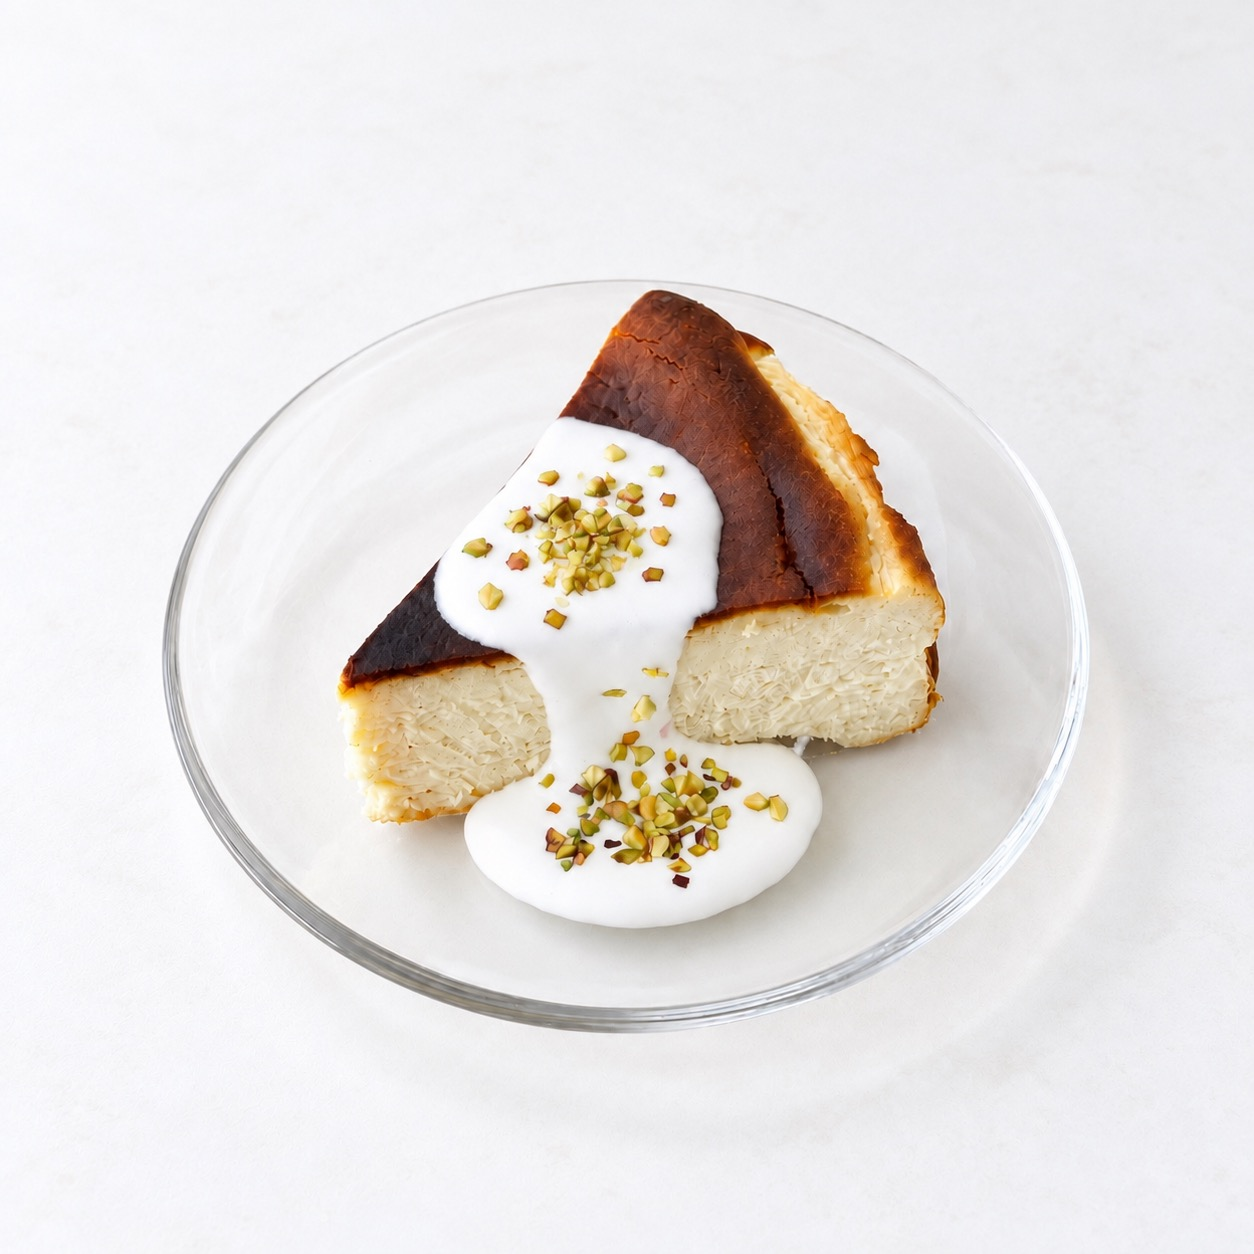
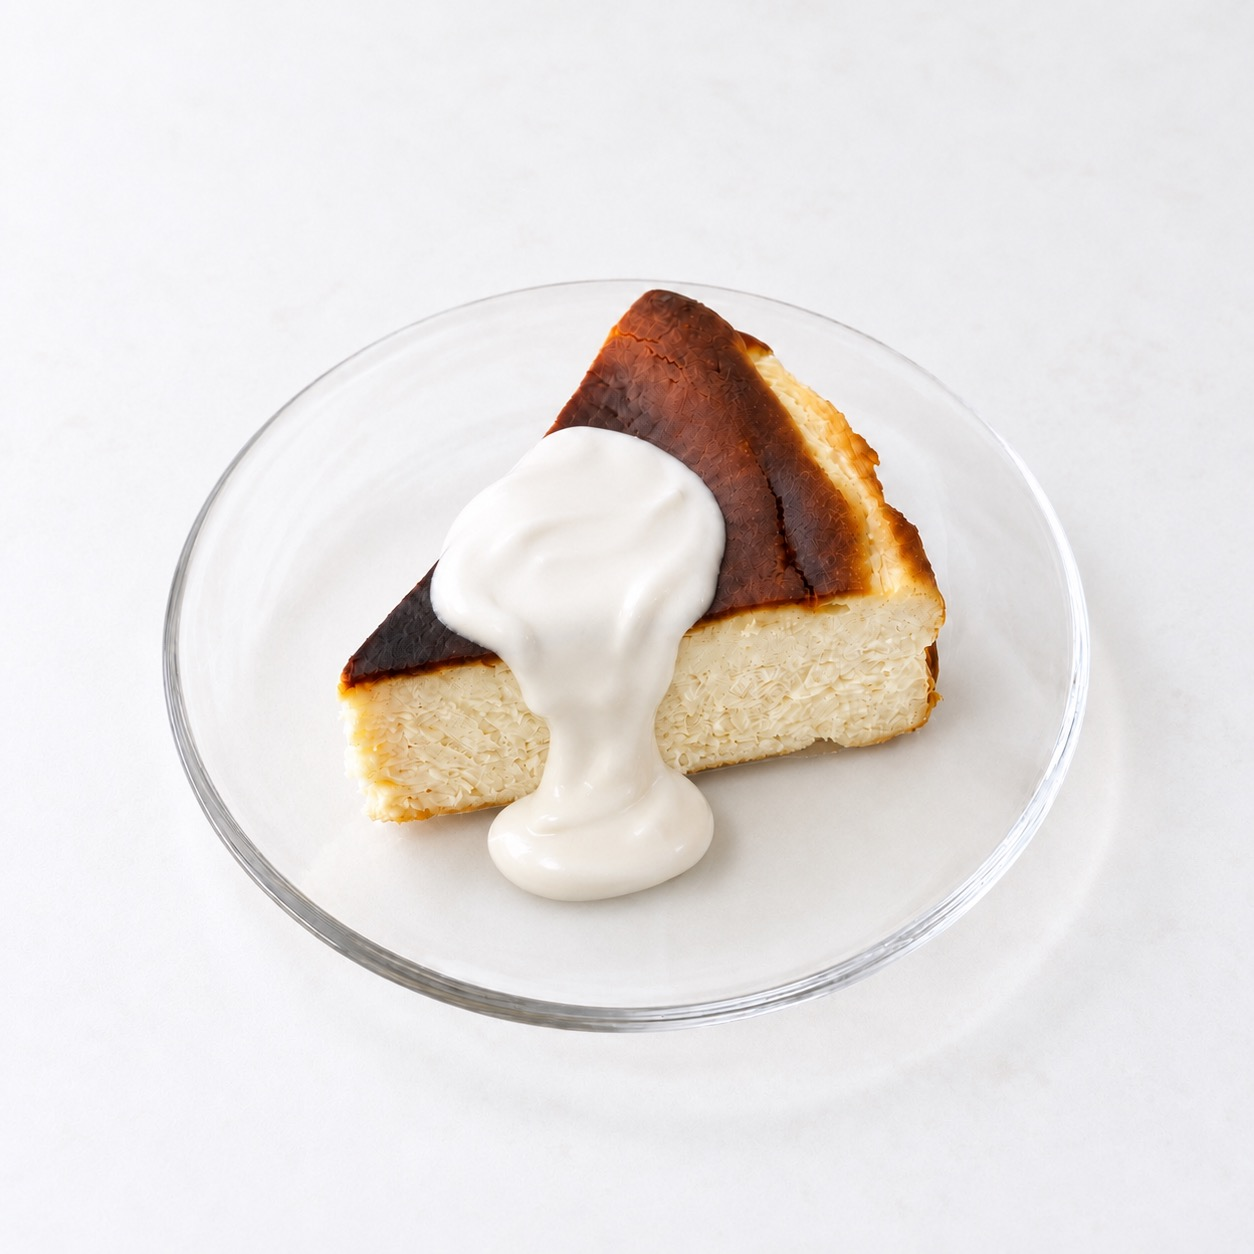
오리지널 바스크 사진 크림만

diff --git a/recipe/index.html b/recipe/index.html
@@ -1042,7 +1042,7 @@ body:not([data-tab="faq"]) #tFaq{display:none}
 <footer>
   재료 옆 <b>⚠</b> 는 아직 정확히 안 정해진 양이에요. 대충 그 정도로 하고, 사장님께 물어봐 주세요.<br>
   순서가 안 적힌 메뉴는 사장님께 확인 후 추가됩니다.<br>
-  갱신 2026-11-28 20:22
+  갱신 2026-11-28 20:34
 </footer>
 
 <script>
@@ -2436,7 +2436,7 @@ apply();
 drawStock();
 
 /* ===== 새 버전 자동 새로고침 — 쓰는 중이면 기다린다 ===== */
-var BUILD="2026-11-28 20:22",lastTouch=Date.now();
+var BUILD="2026-11-28 20:34",lastTouch=Date.now();
 ['pointerdown','keydown','input'].forEach(function(ev){document.addEventListener(ev,function(){lastTouch=Date.now();},true);});
 function busy(){
   if(Date.now()-lastTouch<5000)return true;
